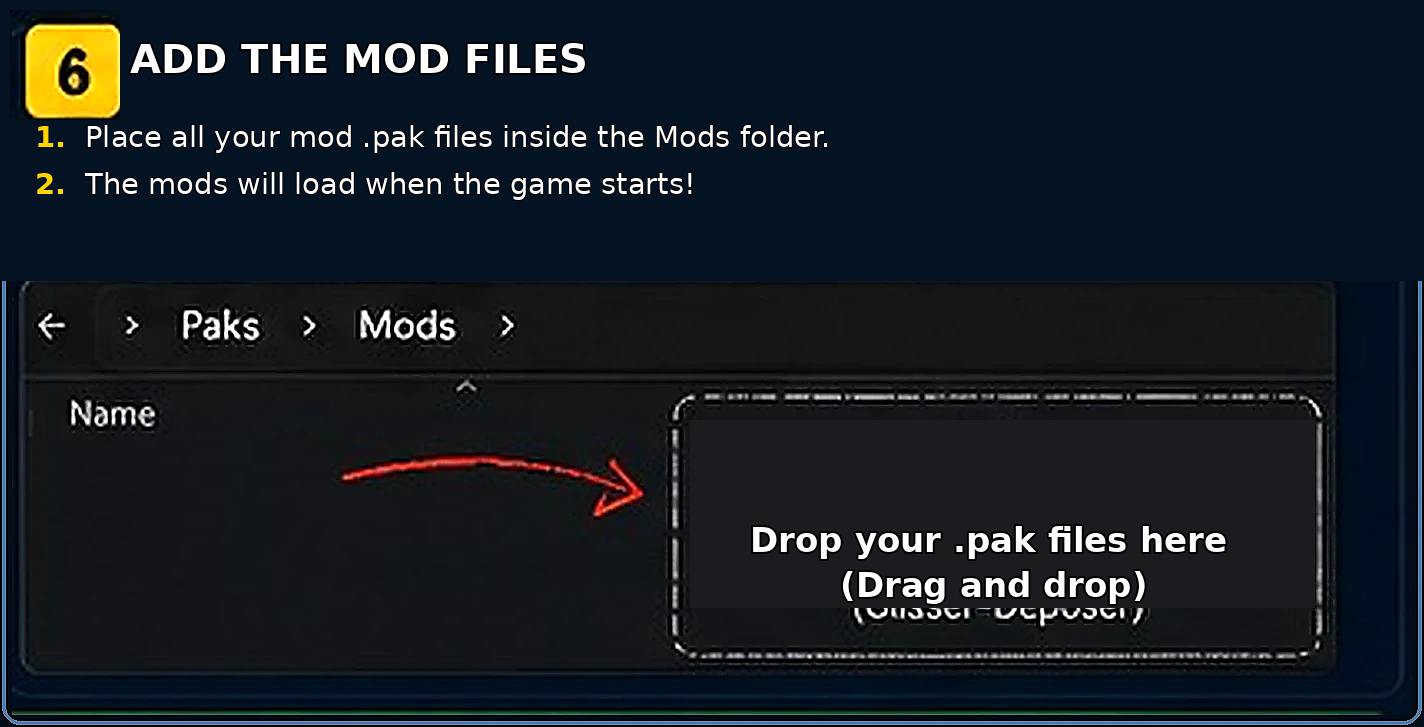
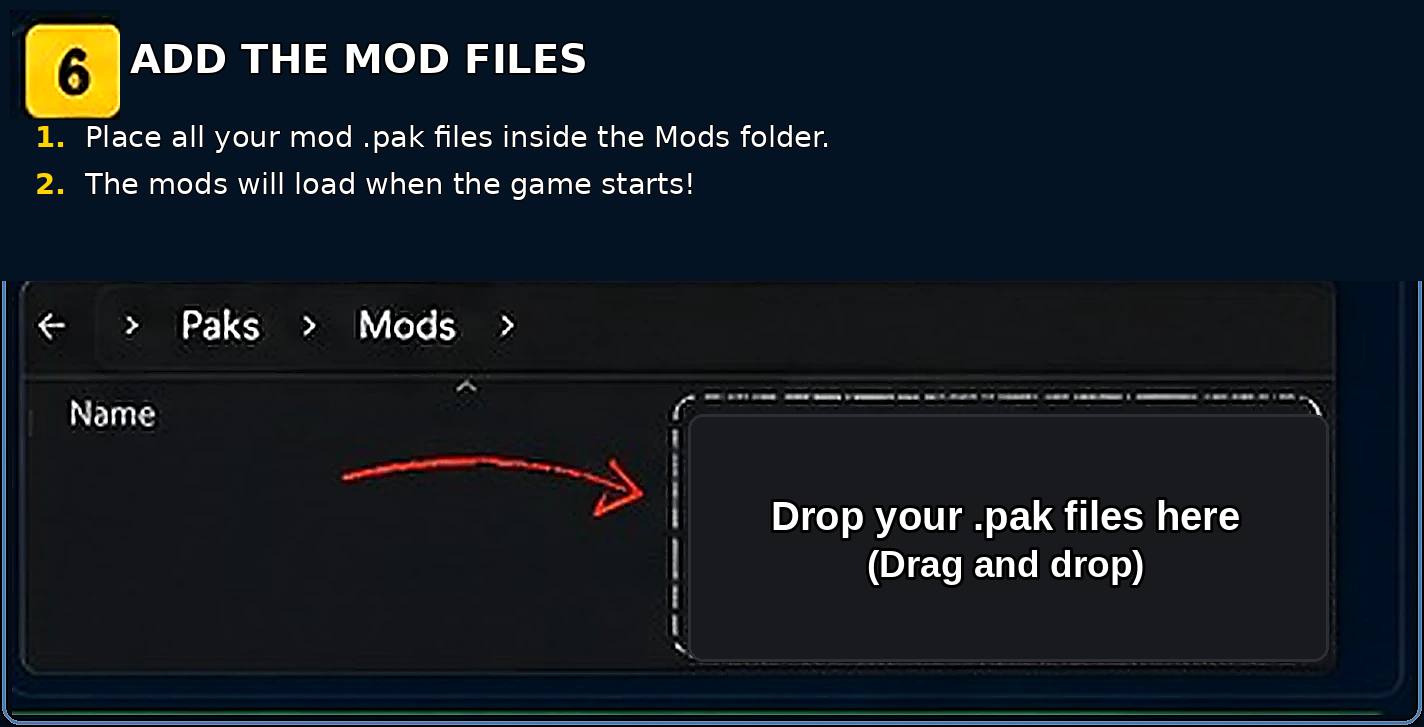
jai regles les installation

Changed region(s): [[0.4635, 0.575, 0.9579, 0.9078], [0.4944, 0.5447, 0.927, 0.575]]

diff --git a/public/js/v401-final-corrections.js b/public/js/v401-final-corrections.js
@@ -106,43 +106,139 @@
     });
   },true);
 
-  /* Installation PWA : vrai prompt si Brave/Chrome le fournit, aide précise sinon. */
+  /* Installation PWA : prompt natif quand disponible, raccourci téléchargeable sinon. */
   window.addEventListener('beforeinstallprompt',event=>{
     event.preventDefault();
     installPrompt=event;
   });
   window.addEventListener('appinstalled',()=>{installPrompt=null});
+
   const standalone=()=>matchMedia('(display-mode: standalone)').matches||navigator.standalone===true;
-  function installHelp(){
+  const ua=()=>String(navigator.userAgent||'');
+  const isIOS=()=>/iphone|ipad|ipod/i.test(ua());
+  const isAndroid=()=>/android/i.test(ua());
+  const isMac=()=>/macintosh|mac os x/i.test(ua())&&!isIOS();
+  const isLinux=()=>/linux/i.test(ua())&&!isAndroid();
+  const isFirefox=()=>/firefox\//i.test(ua());
+  const isSafari=()=>/safari/i.test(ua())&&!/chrome|chromium|crios|edg|opr|firefox/i.test(ua());
+  const isMobile=()=>isIOS()||isAndroid()||/mobile/i.test(ua());
+  const english=()=>{try{return (typeof lang!=='undefined'?lang:window.lang)==='en'}catch(_){return false}};
+  const tr=(fr,en)=>english()?en:fr;
+
+  function appHomeUrl(){
+    try{return new URL('/#home',location.origin).href}catch(_){return location.href.split('#')[0]+'#home'}
+  }
+
+  function downloadShortcut(){
+    if(isMobile())return false;
+    const url=appHomeUrl();
+    let name='MHUR-France.url';
+    let type='application/internet-shortcut;charset=utf-8';
+    let content=`[InternetShortcut]\r\nURL=${url}\r\nIconFile=${location.origin}/favicon.ico\r\nIconIndex=0\r\n`;
+
+    if(isMac()){
+      name='MHUR France.webloc';
+      type='application/xml;charset=utf-8';
+      const safe=url.replace(/&/g,'&amp;').replace(/</g,'&lt;').replace(/>/g,'&gt;');
+      content=`<?xml version="1.0" encoding="UTF-8"?>\n<!DOCTYPE plist PUBLIC "-//Apple//DTD PLIST 1.0//EN" "https://www.apple.com/DTDs/PropertyList-1.0.dtd">\n<plist version="1.0"><dict><key>URL</key><string>${safe}</string></dict></plist>`;
+    }else if(isLinux()){
+      name='MHUR-France.html';
+      type='text/html;charset=utf-8';
+      const safe=url.replace(/&/g,'&amp;').replace(/"/g,'&quot;').replace(/</g,'&lt;').replace(/>/g,'&gt;');
+      content=`<!doctype html><meta charset="utf-8"><meta http-equiv="refresh" content="0;url=${safe}"><title>MHUR France</title><p><a href="${safe}">Open MHUR France</a></p>`;
+    }
+
+    const blob=new Blob([content],{type});
+    const objectUrl=URL.createObjectURL(blob);
+    const link=document.createElement('a');
+    link.href=objectUrl;
+    link.download=name;
+    link.style.display='none';
+    document.body.appendChild(link);
+    link.click();
+    link.remove();
+    setTimeout(()=>URL.revokeObjectURL(objectUrl),1500);
+    return true;
+  }
+
+  function installHelp(shortcutDownloaded=false){
     let box=document.getElementById('v401InstallHelp');
     if(!box){
-      box=document.createElement('div');box.id='v401InstallHelp';box.className='v401InstallHelp';box.hidden=true;
-      box.innerHTML='<section class="v401InstallCard"><h2>Installer MHUR France</h2><div class="v401InstallText"></div><button type="button">OK</button></section>';
-      box.querySelector('button').onclick=()=>box.hidden=true;
-      box.onclick=e=>{if(e.target===box)box.hidden=true};
+      box=document.createElement('div');
+      box.id='v401InstallHelp';
+      box.className='v401InstallHelp';
+      box.hidden=true;
+      box.innerHTML='<section class="v401InstallCard" role="dialog" aria-modal="true"><button class="v401InstallClose" type="button" aria-label="Close">×</button><h2></h2><div class="v401InstallText"></div><div class="v401InstallActions"><button class="v401InstallDownload" type="button"></button><button class="v401InstallOk" type="button"></button></div></section>';
+      box.querySelector('.v401InstallClose').onclick=()=>box.hidden=true;
+      box.querySelector('.v401InstallOk').onclick=()=>box.hidden=true;
+      box.querySelector('.v401InstallDownload').onclick=()=>{
+        if(downloadShortcut())installHelp(true);
+      };
+      box.onclick=event=>{if(event.target===box)box.hidden=true};
       document.body.appendChild(box);
     }
-    const brave=!!navigator.brave||/Brave/i.test(navigator.userAgent);
-    const ios=/iphone|ipad|ipod/i.test(navigator.userAgent);
-    const en=(()=>{try{return (typeof lang!=='undefined'?lang:window.lang)==='en'}catch(_){return false}})();
-    let html;
-    if(ios)html=en?'In Safari, tap <b>Share</b>, then <b>Add to Home Screen</b>.':'Dans Safari, touche <b>Partager</b>, puis <b>Sur l’écran d’accueil</b>.';
-    else if(brave)html=en?'In Brave, click the install icon at the right of the address bar. If it is hidden, open the <b>☰ menu</b> and choose <b>Install MHUR France</b>.':'Dans Brave, clique sur l’icône d’installation à droite de la barre d’adresse. Si elle est cachée, ouvre le <b>menu ☰</b> puis choisis <b>Installer MHUR France</b>.';
-    else html=en?'Open the browser menu and choose <b>Install app</b>.':'Ouvre le menu du navigateur puis choisis <b>Installer l’application</b>.';
-    box.querySelector('.v401InstallText').innerHTML=`<p>${html}</p>`;box.hidden=false;
+
+    const title=box.querySelector('h2');
+    const text=box.querySelector('.v401InstallText');
+    const download=box.querySelector('.v401InstallDownload');
+    const ok=box.querySelector('.v401InstallOk');
+    title.textContent=tr('Installer MHUR France','Install MHUR France');
+    ok.textContent=tr('Fermer','Close');
+    download.textContent=tr('Télécharger le raccourci','Download shortcut');
+    download.hidden=isMobile();
+
+    let html='';
+    if(isIOS()){
+      html=tr('Dans <b>Safari</b>, touche <b>Partager</b>, puis <b>Sur l’écran d’accueil</b>.','In <b>Safari</b>, tap <b>Share</b>, then <b>Add to Home Screen</b>.');
+    }else if(isAndroid()){
+      html=tr('Ouvre le menu du navigateur puis choisis <b>Installer l’application</b> ou <b>Ajouter à l’écran d’accueil</b>.','Open the browser menu and choose <b>Install app</b> or <b>Add to Home screen</b>.');
+    }else if(isMac()&&isSafari()){
+      html=tr('Dans Safari, ouvre le menu <b>Fichier</b> puis choisis <b>Ajouter au Dock</b>.','In Safari, open the <b>File</b> menu, then choose <b>Add to Dock</b>.');
+    }else if(isFirefox()){
+      html=tr('Firefox ne propose pas toujours l’installation automatique. Utilise le raccourci téléchargé pour ouvrir MHUR France directement.','Firefox does not always offer automatic installation. Use the downloaded shortcut to open MHUR France directly.');
+    }else{
+      html=tr('Ton navigateur n’a pas affiché la fenêtre native. Tu peux utiliser son menu <b>Installer l’application</b> ou ouvrir le raccourci téléchargé.','Your browser did not show the native prompt. Use its <b>Install app</b> menu or open the downloaded shortcut.');
+    }
+    if(shortcutDownloaded&&!isMobile()){
+      html=`<p>${html}</p>`+tr('<p class="v401InstallSuccess">✅ Le raccourci MHUR France a été téléchargé.</p>','<p class="v401InstallSuccess">✅ The MHUR France shortcut was downloaded.</p>');
+    }else{
+      html=`<p>${html}</p>`;
+    }
+    text.innerHTML=html;
+    box.hidden=false;
   }
+
+  async function waitForInstallPrompt(timeout=900){
+    if(installPrompt)return installPrompt;
+    return new Promise(resolve=>{
+      const started=Date.now();
+      const timer=setInterval(()=>{
+        if(installPrompt||Date.now()-started>=timeout){clearInterval(timer);resolve(installPrompt||null)}
+      },60);
+    });
+  }
+
   async function install(){
     if(standalone())return;
     if('serviceWorker'in navigator&&location.protocol==='https:'){
-      try{const r=await navigator.serviceWorker.register('/service-worker.js?v=401',{scope:'/',updateViaCache:'none'});await r.update().catch(()=>{});await navigator.serviceWorker.ready}catch(_){}
+      try{
+        const registration=await navigator.serviceWorker.register('/service-worker.js?v=406',{scope:'/',updateViaCache:'none'});
+        await registration.update().catch(()=>{});
+        await navigator.serviceWorker.ready;
+      }catch(_){ }
     }
-    if(installPrompt){
-      const prompt=installPrompt;installPrompt=null;
-      try{await prompt.prompt();await prompt.userChoice}catch(_){}
+
+    const prompt=installPrompt||await waitForInstallPrompt();
+    if(prompt){
+      installPrompt=null;
+      try{await prompt.prompt();await prompt.userChoice}catch(_){ }
       return;
     }
-    installHelp();
+
+    const downloaded=downloadShortcut();
+    installHelp(downloaded);
   }
+
   document.addEventListener('click',event=>{
     const button=event.target.closest('#drawer [data-v395-key="install"],#drawer [data-mhur-install]');
     if(!button)return;
@@ -152,5 +248,5 @@
   document.addEventListener('DOMContentLoaded',()=>{wireRoutes();setTimeout(wireRoutes,80);setTimeout(wireRoutes,500)},{once:true});
   window.addEventListener('hashchange',()=>setTimeout(refresh,0));
   window.addEventListener('load',()=>setTimeout(wireRoutes,50),{once:true});
-  window.MHUR_V401={activate,refresh,install};
+  window.MHUR_V401={activate,refresh,install,downloadShortcut};
 })();

diff --git a/public/index.html b/public/index.html
@@ -7,7 +7,7 @@
 <meta charset="utf-8">
 <meta name="viewport" content="width=device-width,initial-scale=1">
 <meta name="google-site-verification" content="kw2VXVq_AZcsKg3TdhJl91U4poT62GNr8Mjg0Sh4T-0" />
-<title>My Hero Ultra Rumble France</title>
+<title>MHUR FR — My Hero Ultra Rumble France | Site communautaire</title>
 <style>
 :root{
   --bg:#070b13;--panel:#101928;--panel2:#17263b;--line:#344c70;--text:#f7fbff;--muted:#c7d7ee;
@@ -714,22 +714,53 @@
 <link rel="icon" type="image/png" sizes="32x32" href="assets/brand/favicon-32.png">
 <link rel="apple-touch-icon" href="assets/brand/apple-touch-icon.png">
 <meta name="theme-color" content="#ffe100">
-<title>MHUR France — Personnages, costumes, T.U.N.I.N.G et builds</title>
-<meta name="description" content="Site communautaire français dédié à My Hero Ultra Rumble : personnages, compétences, costumes, T.U.N.I.N.G, builds, Tier Lists, événements et patch notes.">
-<meta name="robots" content="index,follow,max-image-preview:large">
+<meta name="description" content="MHUR FR, le site communautaire français de My Hero Ultra Rumble (aussi recherché My Hero Academia Ultra Rumble) : personnages, builds, costumes, T.U.N.I.N.G, Tier Lists, mods et événements.">
+<meta name="keywords" content="MHUR FR, MHUR France, My Hero Ultra Rumble France, My Hero Academia Ultra Rumble, My Hero Academia Ultra Rumble France, builds MHUR, Tier List MHUR, mods MHUR">
+<meta name="robots" content="index,follow,max-image-preview:large,max-snippet:-1,max-video-preview:-1">
 <link rel="canonical" href="https://mhur-france.eallon01.workers.dev/">
+<link rel="alternate" hreflang="fr-FR" href="https://mhur-france.eallon01.workers.dev/">
+<link rel="alternate" hreflang="x-default" href="https://mhur-france.eallon01.workers.dev/">
 <meta property="og:type" content="website">
 <meta property="og:locale" content="fr_FR">
-<meta property="og:site_name" content="MHUR France">
-<meta property="og:title" content="MHUR France — My Hero Ultra Rumble France">
-<meta property="og:description" content="Personnages, compétences, costumes, T.U.N.I.N.G, builds communautaires, Tier Lists et événements MHUR.">
+<meta property="og:site_name" content="MHUR FR">
+<meta property="og:title" content="MHUR FR — My Hero Ultra Rumble France">
+<meta property="og:description" content="Le site communautaire français de My Hero Ultra Rumble : personnages, builds, costumes, T.U.N.I.N.G, Tier Lists, mods et événements.">
 <meta property="og:url" content="https://mhur-france.eallon01.workers.dev/">
 <meta property="og:image" content="https://mhur-france.eallon01.workers.dev/assets/brand/mhur-france-icon.png">
+<meta property="og:image:alt" content="Logo de MHUR FR, communauté française de My Hero Ultra Rumble">
 <meta name="twitter:card" content="summary_large_image">
-<meta name="twitter:title" content="MHUR France">
-<meta name="twitter:description" content="La plateforme communautaire française de My Hero Ultra Rumble.">
+<meta name="twitter:title" content="MHUR FR — My Hero Ultra Rumble France">
+<meta name="twitter:description" content="La communauté française de My Hero Ultra Rumble : guides, builds, Tier Lists, mods et événements.">
 <meta name="twitter:image" content="https://mhur-france.eallon01.workers.dev/assets/brand/mhur-france-icon.png">
-<script type="application/ld+json">{"@context":"https://schema.org","@type":"WebSite","name":"MHUR France","url":"https://mhur-france.eallon01.workers.dev/","inLanguage":["fr","en"],"potentialAction":{"@type":"SearchAction","target":"https://mhur-france.eallon01.workers.dev/?q={search_term_string}","query-input":"required name=search_term_string"}}</script>
+<meta name="twitter:image:alt" content="Logo de MHUR FR">
+<script type="application/ld+json">
+{
+  "@context": "https://schema.org",
+  "@graph": [
+    {
+      "@type": "WebSite",
+      "@id": "https://mhur-france.eallon01.workers.dev/#website",
+      "url": "https://mhur-france.eallon01.workers.dev/",
+      "name": "MHUR FR",
+      "alternateName": [
+        "MHUR France",
+        "My Hero Ultra Rumble France",
+        "My Hero Academia Ultra Rumble France"
+      ],
+      "description": "Site communautaire français dédié à My Hero Ultra Rumble.",
+      "inLanguage": ["fr-FR", "en"]
+    },
+    {
+      "@type": "Organization",
+      "@id": "https://mhur-france.eallon01.workers.dev/#organization",
+      "name": "MHUR FR",
+      "alternateName": "MHUR France",
+      "url": "https://mhur-france.eallon01.workers.dev/",
+      "logo": "https://mhur-france.eallon01.workers.dev/assets/brand/mhur-france-icon.png"
+    }
+  ]
+}
+</script>
 
 </head>
 <body>
@@ -1043,7 +1074,7 @@ function updateSigninText(){const t=document.getElementById('signinTitle'),s=doc
 function toggleLang(){lang=lang==='fr'?'en':'fr';layout();updateSigninText();window.MHUR_AUTH?.renderButton?.()}function go(p){page=p||'home';selectedChar=null;selectedStyle=null;selectedCostume=null;document.getElementById('drawer').classList.remove('open');if(location.hash!=='#'+page) location.hash=page;layout()}window.addEventListener('hashchange',()=>{const h=(location.hash||'#home').replace('#','');if(['home','characters','tunings','costumes','builds'].includes(h))go(h)});document.addEventListener('click',(e)=>{const a=e.target.closest('.navItem');if(a&&!a.hasAttribute('data-mhur-hub')){e.preventDefault();go(a.dataset.page)}});
 function layout(){document.getElementById('drawer').innerHTML=['home','characters','tunings','costumes','builds'].map(p=>`<a href="#${p}" data-page="${p}" class="navItem ${page===p?'active':''}">${tr(p)}</a>`).join('');render()}
 function card(c,mode='characters'){const modeClass=mode==='costumes'?' costumeMode':mode==='builds'?' buildMode':mode==='tunings'?' tuningMode':' characterMode';const tag=mode==='costumes'?`<div class="cardModeTag">${tr('costumeTag')}</div>`:mode==='builds'?`<div class="cardModeTag">${tr('buildTag')}</div>`:mode==='tunings'?`<div class="cardModeTag">T.U.N.I.N.G</div>`:`<div class="cardModeTag">PERSONNAGE</div>`;const msg=mode==='costumes'?tr('costumeChoose'):mode==='builds'?tr('buildChoose'):mode==='tunings'?'Clique pour choisir le T.U.N.I.N.G.':tr('choose');return `<button class="card${modeClass}" data-char="${c.id}" onclick="selectChar('${c.id}')">${tag}<div class="thumb">${asset(c.portrait,c.name)}</div><div class="cardBody"><h3>${c.name}</h3><div class="badges">${sideBadge(c.side)}${c.styles.map(s=>roleBadge(styles[s].role)).join('')}</div><p style="color:#c9d7ee">${msg}</p></div></button>`}
-function home(){return `<h1 class="title">MY HERO ULTRA RUMBLE FRANCE</h1><div class="homeBox">Base de données FR/EN pour les personnages, T.U.N.I.N.G, costumes et builds de la communauté.<br><br>Les personnages déjà détaillés restent complets. Les personnages restants ont été ajoutés dans l’ordre du roster avec des fiches provisoires à compléter progressivement.<div class="workflowBox"><h2>Workflow portraits v152</h2>Le site contient maintenant un dossier <code>portrait_pipeline</code> pour gérer les portraits de skins proprement : on récupère les images, on les range avec un ordre numérique, puis on garde l’ordre officiel du jeu dans un fichier JSON.<div class="workflowSteps"><div class="workflowStep"><b>1.</b> Récupérer les portraits UltraRumble dans <code>portrait_source</code></div><div class="workflowStep"><b>2.</b> Remplir <code>skin_order_template.json</code> avec l’ordre du jeu</div><div class="workflowStep"><b>3.</b> Lancer <code>prepare_portraits.py</code> pour renommer et créer le manifest</div></div></div></div>`}
+function home(){return `<h1 class="title">MHUR FR — MY HERO ULTRA RUMBLE FRANCE</h1><div class="homeBox"><strong>MHUR FR</strong> est le site communautaire français de <strong>My Hero Ultra Rumble</strong>, parfois recherché sous le nom « My Hero Academia Ultra Rumble ». Retrouvez les personnages, T.U.N.I.N.G, costumes, builds, Tier Lists, mods et événements de la communauté.<br><br>Les personnages déjà détaillés restent complets. Les personnages restants ont été ajoutés dans l’ordre du roster avec des fiches provisoires à compléter progressivement.<div class="workflowBox"><h2>Workflow portraits v152</h2>Le site contient maintenant un dossier <code>portrait_pipeline</code> pour gérer les portraits de skins proprement : on récupère les images, on les range avec un ordre numérique, puis on garde l’ordre officiel du jeu dans un fichier JSON.<div class="workflowSteps"><div class="workflowStep"><b>1.</b> Récupérer les portraits UltraRumble dans <code>portrait_source</code></div><div class="workflowStep"><b>2.</b> Remplir <code>skin_order_template.json</code> avec l’ordre du jeu</div><div class="workflowStep"><b>3.</b> Lancer <code>prepare_portraits.py</code> pour renommer et créer le manifest</div></div></div></div>`}
 function rosterSections(showSearch=false,mode='characters'){const hs=characters.filter(c=>c.side==='hero').map(c=>card(c,mode)).join('');const vs=characters.filter(c=>c.side==='villain').map(c=>card(c,mode)).join('');const prefix=mode==='costumes'?`${tr('costumes')} — `:mode==='builds'?`${tr('builds')} — `:mode==='tunings'?`T.U.N.I.N.G — `:`${tr('characters')} — `;const notice=mode==='costumes'?`<div class="modeNotice"><span>${tr('costumeTag')}</span>${tr('costumeChoose')}</div>`:mode==='builds'?`<div class="modeNotice"><span>${tr('buildTag')}</span>${tr('buildChoose')}</div>`:mode==='tunings'?`<div class="modeNotice"><span>T.U.N.I.N.G</span>${tr('tuningNotice')}</div>`:`<div class="modeNotice"><span>${tr('charactersTag')}</span>${tr('characterNotice')}</div>`;const frame=mode==='costumes'?'costumesFrame':mode==='builds'?'buildsFrame':mode==='tunings'?'tuningsFrame':'charactersFrame';return `<div class="pageFrame ${frame}">${notice}${showSearch?`<input class="search" placeholder="${tr('search')}" oninput="filterCards(this.value)">`:''}<div class="section"><div class="sectionHead heroHead">${prefix}${tr('heroes')}</div><div class="sectionBody cardsGrid" id="cards">${hs}</div></div><div class="section"><div class="sectionHead villainHead">${prefix}${tr('villains')}</div><div class="sectionBody cardsGrid">${vs}</div></div></div>`}
 function charactersPage(){if(selectedChar&&selectedStyle)return characterDetail(selectedStyle);if(selectedChar)return stylePicker();return `<h1 class="title">${tr('characters')}</h1>${rosterSections(true)}`}
 function filterCards(q){q=q.toLowerCase();document.querySelectorAll('.card').forEach(el=>el.style.display=el.textContent.toLowerCase().includes(q)?'flex':'none')}
@@ -5836,8 +5867,8 @@ body .costumeTile > img,
 
 
 <!-- V401 MUST remain last: targeted final corrections. -->
-<link rel="stylesheet" href="css/v405-final-hamburger.css?v=405">
-<script src="js/v401-final-corrections.js?v=401"></script>
+<link rel="stylesheet" href="css/v405-final-hamburger.css?v=406">
+<script src="js/v401-final-corrections.js?v=406"></script>
 <script src="js/v403-tutorial-image-language.js?v=404"></script>
 </body></html>
 <style id="v223_tuning_text_fix">
@@ -6597,7 +6628,7 @@ body .costumeTile > img,
 <!-- V386 JS disabled by V395 -->
 <!-- V387 Community Mods — loaded after menu organisation. -->
 <link rel="stylesheet" href="css/community-mods.css?v=400">
-<script src="js/community-mods.js?v=400"></script>
+<script src="js/community-mods.js?v=406"></script>
 <!-- V391 JS disabled by V395 -->
 <script src="js/v395-stable-menu.js?v=399"></script>
 

diff --git a/public/css/v405-final-hamburger.css b/public/css/v405-final-hamburger.css
@@ -139,12 +139,16 @@ body.v401-tier-dragging{scroll-behavior:auto!important}
 }
 .v401InstallHelp[hidden]{display:none}
 .v401InstallCard{
-  width:min(560px,100%);padding:24px;border:3px solid #4b6f9d;border-radius:18px;
+  position:relative;width:min(560px,100%);padding:24px;border:3px solid #4b6f9d;border-radius:18px;
   background:#101a2a;color:#fff;box-shadow:0 18px 70px #000
 }
-.v401InstallCard h2{margin:0 0 12px;color:#ffe000}
+.v401InstallCard h2{margin:0 44px 12px 0;color:#ffe000}
 .v401InstallCard p{line-height:1.55}
-.v401InstallCard button{display:block;margin:18px 0 0 auto;padding:10px 18px;border:2px solid #000;border-radius:10px;background:#ffe000;color:#000;font-weight:1000}
+.v401InstallClose{position:absolute;top:12px;right:12px;width:38px;height:38px;margin:0!important;padding:0!important;border-radius:50%!important;background:#e84f48!important;color:#fff!important;font-size:24px!important;line-height:1!important}
+.v401InstallActions{display:flex;justify-content:flex-end;gap:10px;flex-wrap:wrap;margin-top:18px}
+.v401InstallCard .v401InstallActions button{display:block;margin:0;padding:10px 18px;border:2px solid #000;border-radius:10px;background:#ffe000;color:#000;font-weight:1000}
+.v401InstallCard .v401InstallOk{background:#243752;color:#fff}
+.v401InstallSuccess{margin:14px 0 0;padding:10px 12px;border:2px solid #2e8b57;border-radius:10px;background:#10291d;color:#caffdf;font-weight:900}
 
 @media(max-width:760px){
   .modalV296{padding-top:max(8px,env(safe-area-inset-top))!important}

diff --git a/public/js/community-mods.js b/public/js/community-mods.js
@@ -29,7 +29,7 @@ function filtered(){let rows=state.rows.filter(r=>{const cat=normalizedCategory(
 function preview(r,controls=false){if(r.preview_url&&r.preview_type==='video')return `<video src="${esc(r.preview_url)}" ${controls?'controls':'muted loop playsinline'} preload="metadata"></video>`;if(r.preview_url)return `<img src="${esc(r.preview_url)}" alt="${esc(r.title)}" loading="lazy">`;return `<div class="modPreviewFallback">🧩</div>`}
 function tags(r){const arr=[categoryLabel(r.category),r.character_name,...(Array.isArray(r.tags)?r.tags:[])].filter(Boolean);return [...new Set(arr)].map(t=>`<button class="modTag" data-mod-tag="${esc(t)}">${esc(t)}</button>`).join('')}
 function card(r){const p=state.profiles[r.creator_id]||{};return `<article class="modCard" data-mod-id="${esc(r.id)}"><button class="modCardOpen" data-mod-open="${esc(r.id)}" aria-label="${tx('Ouvrir le mod','Open mod')}"><div class="modPreview">${preview(r)}</div></button><div class="modBody"><div class="modTags">${tags(r)}</div><button class="modTitle" data-mod-open="${esc(r.id)}"><h3>${esc(r.title)}</h3></button>${r.character_name?`<b>👤 ${esc(r.character_name)}</b>`:''}<p>${esc(r.description)}</p><div class="modMeta">${esc(p.username||tx('Membre','Member'))} · ${formatDate(r.created_at)} · ${formatSize(r.file_size)}</div><div class="modStats"><span>♥ ${Number(r.likes_count)||0}</span><span>⬇ ${Number(r.downloads_count)||0}</span></div></div></article>`}
-function tutorial(){return `<details class="modsTutorial"><summary>📘 ${tx('Installer des mods — PC Steam uniquement','Install mods — PC Steam only')}</summary><div class="modsTutorialBody"><div class="modsWarning">⚠️ ${tx('Ce tutoriel concerne uniquement la version PC Steam de My Hero Ultra Rumble. Les mods ne fonctionnent pas sur console.','This tutorial is only for the PC Steam version of My Hero Ultra Rumble. Mods do not work on console.')}</div><section class="modsTutorialSteps modsTutorialStepsFinal"><article><h3>1. ${tx('Activer les mods dans Steam','Enable mods in Steam')}</h3><ol><li>${tx('Ouvre ta bibliothèque Steam et sélectionne My Hero Ultra Rumble.','Open your Steam library and select My Hero Ultra Rumble.')}</li><li>${tx('Clique sur l’engrenage, puis sur Propriétés.','Click the gear icon, then Properties.')}</li><li>${tx('Dans Général, trouve Options de lancement.','In General, find Launch Options.')}</li><li>${tx('Copie-colle exactement cette commande :','Copy and paste this exact command:')} <button class="modsCopyCommand" type="button" data-copy="-fileopenlog"><code>-fileopenlog</code><span>${tx('Copier','Copy')}</span></button></li></ol><p class="modsImportant">${tx('Sans cette commande, le jeu ne chargera pas les mods.','Without this command, the game will not load mods.')}</p><img class="modsTutorialStepImage" src="assets/mods-tutorial/steps/etape-1.png" data-fr-src="assets/mods-tutorial/steps/etape-1.png" data-en-src="assets/mods-tutorial/steps/etape-1-en.png" loading="lazy" decoding="async" alt="${tx('Steam : Propriétés et option de lancement -fileopenlog','Steam: Properties and the -fileopenlog launch option')}"></article><article><h3>2. ${tx('Ouvrir les fichiers locaux','Open local files')}</h3><ol><li>${tx('Clique de nouveau sur l’engrenage.','Click the gear icon again.')}</li><li>${tx('Choisis Gérer.','Choose Manage.')}</li><li>${tx('Clique sur Parcourir les fichiers locaux.','Click Browse local files.')}</li></ol><img class="modsTutorialStepImage" src="assets/mods-tutorial/steps/etape-2.png" data-fr-src="assets/mods-tutorial/steps/etape-2.png" data-en-src="assets/mods-tutorial/steps/etape-2-en.png" loading="lazy" decoding="async" alt="${tx('Steam : Gérer puis Parcourir les fichiers locaux','Steam: Manage then Browse local files')}"></article><article><h3>3. ${tx('Ouvrir HerovsGame','Open HerovsGame')}</h3><ol><li>${tx('Dans le dossier du jeu, double-clique sur','In the game folder, double-click')} <code>HerovsGame</code>.</li></ol><img class="modsTutorialStepImage" src="assets/mods-tutorial/steps/etape-3.png" data-fr-src="assets/mods-tutorial/steps/etape-3.png" data-en-src="assets/mods-tutorial/steps/etape-3-en.png" loading="lazy" decoding="async" alt="${tx('Dossier HerovsGame','HerovsGame folder')}"></article><article><h3>4. ${tx('Ouvrir Content puis Paks','Open Content then Paks')}</h3><ol><li>${tx('Dans HerovsGame, ouvre','Inside HerovsGame, open')} <code>Content</code>.</li><li>${tx('Ensuite, ouvre','Then open')} <code>Paks</code>.</li></ol><img class="modsTutorialStepImage" src="assets/mods-tutorial/steps/etape-4.png" data-fr-src="assets/mods-tutorial/steps/etape-4.png" data-en-src="assets/mods-tutorial/steps/etape-4-en.png" loading="lazy" decoding="async" alt="${tx('Dossiers Content et Paks','Content and Paks folders')}"></article><article><h3>5. ${tx('Créer le dossier Mods','Create the Mods folder')}</h3><ol><li>${tx('Dans Paks, crée un nouveau dossier.','Inside Paks, create a new folder.')}</li><li>${tx('Nomme-le exactement','Name it exactly')} <code>Mods</code> ${tx('(avec une majuscule).','(with a capital M).')}</li></ol><img class="modsTutorialStepImage" src="assets/mods-tutorial/steps/etape-5.png" data-fr-src="assets/mods-tutorial/steps/etape-5.png" data-en-src="assets/mods-tutorial/steps/etape-5-en.png" loading="lazy" decoding="async" alt="${tx('Création du dossier Mods','Creating the Mods folder')}"></article><article><h3>6. ${tx('Ajouter les fichiers .pak','Add the .pak files')}</h3><ol><li>${tx('Ouvre le dossier Mods.','Open the Mods folder.')}</li><li>${tx('Place tous les fichiers .pak téléchargés dans ce dossier.','Place all downloaded .pak files in this folder.')}</li><li>${tx('Lance ensuite le jeu depuis Steam.','Then launch the game from Steam.')}</li></ol><p><code>SteamLibrary/steamapps/common/My Hero Ultra Rumble/HerovsGame/Content/Paks/Mods</code></p><img class="modsTutorialStepImage" src="assets/mods-tutorial/steps/etape-6.png" data-fr-src="assets/mods-tutorial/steps/etape-6.png" data-en-src="assets/mods-tutorial/steps/etape-6-en.png" loading="lazy" decoding="async" alt="${tx('Ajout des fichiers pak dans Mods','Adding pak files to Mods')}"></article><article class="modsTutorialDone"><h3>✅ ${tx('C’est terminé','You are done')}</h3><p>${tx('Si le mod est compatible et correctement installé, il sera chargé automatiquement. Pour retirer un mod, supprime simplement son fichier .pak du dossier Mods.','If the mod is compatible and installed correctly, it will load automatically. To remove a mod, simply delete its .pak file from the Mods folder.')}</p></article></section></div></details>`}
+function tutorial(){return `<details class="modsTutorial"><summary>📘 ${tx('Installer des mods — PC Steam uniquement','Install mods — PC Steam only')}</summary><div class="modsTutorialBody"><div class="modsWarning">⚠️ ${tx('Ce tutoriel concerne uniquement la version PC Steam de My Hero Ultra Rumble. Les mods ne fonctionnent pas sur console.','This tutorial is only for the PC Steam version of My Hero Ultra Rumble. Mods do not work on console.')}</div><section class="modsTutorialSteps modsTutorialStepsFinal"><article><h3>1. ${tx('Activer les mods dans Steam','Enable mods in Steam')}</h3><ol><li>${tx('Ouvre ta bibliothèque Steam et sélectionne My Hero Ultra Rumble.','Open your Steam library and select My Hero Ultra Rumble.')}</li><li>${tx('Clique sur l’engrenage, puis sur Propriétés.','Click the gear icon, then Properties.')}</li><li>${tx('Dans Général, trouve Options de lancement.','In General, find Launch Options.')}</li><li>${tx('Copie-colle exactement cette commande :','Copy and paste this exact command:')} <button class="modsCopyCommand" type="button" data-copy="-fileopenlog"><code>-fileopenlog</code><span>${tx('Copier','Copy')}</span></button></li></ol><p class="modsImportant">${tx('Sans cette commande, le jeu ne chargera pas les mods.','Without this command, the game will not load mods.')}</p><img class="modsTutorialStepImage" src="assets/mods-tutorial/steps/etape-1.png" data-fr-src="assets/mods-tutorial/steps/etape-1.png" data-en-src="assets/mods-tutorial/steps/etape-1-en.png" loading="lazy" decoding="async" alt="${tx('Steam : Propriétés et option de lancement -fileopenlog','Steam: Properties and the -fileopenlog launch option')}"></article><article><h3>2. ${tx('Ouvrir les fichiers locaux','Open local files')}</h3><ol><li>${tx('Refais un clic droit sur My Hero Ultra Rumble.','Click the gear icon again.')}</li><li>${tx('Choisis Gérer.','Choose Manage.')}</li><li>${tx('Clique sur Parcourir les fichiers locaux.','Click Browse local files.')}</li></ol><img class="modsTutorialStepImage" src="assets/mods-tutorial/steps/etape-2.png" data-fr-src="assets/mods-tutorial/steps/etape-2.png" data-en-src="assets/mods-tutorial/steps/etape-2-en.png" loading="lazy" decoding="async" alt="${tx('Steam : Gérer puis Parcourir les fichiers locaux','Steam: Manage then Browse local files')}"></article><article><h3>3. ${tx('Ouvrir HerovsGame','Open HerovsGame')}</h3><ol><li>${tx('Dans le dossier du jeu, double-clique sur','In the game folder, double-click')} <code>HerovsGame</code>.</li></ol><img class="modsTutorialStepImage" src="assets/mods-tutorial/steps/etape-3.png" data-fr-src="assets/mods-tutorial/steps/etape-3.png" data-en-src="assets/mods-tutorial/steps/etape-3-en.png" loading="lazy" decoding="async" alt="${tx('Dossier HerovsGame','HerovsGame folder')}"></article><article><h3>4. ${tx('Ouvrir Content puis Paks','Open Content then Paks')}</h3><ol><li>${tx('Dans HerovsGame, ouvre','Inside HerovsGame, open')} <code>Content</code>.</li><li>${tx('Ensuite, ouvre','Then open')} <code>Paks</code>.</li></ol><img class="modsTutorialStepImage" src="assets/mods-tutorial/steps/etape-4.png" data-fr-src="assets/mods-tutorial/steps/etape-4.png" data-en-src="assets/mods-tutorial/steps/etape-4-en.png" loading="lazy" decoding="async" alt="${tx('Dossiers Content et Paks','Content and Paks folders')}"></article><article><h3>5. ${tx('Créer le dossier Mods','Create the Mods folder')}</h3><ol><li>${tx('Dans Paks, crée un nouveau dossier.','Inside Paks, create a new folder.')}</li><li>${tx('Nomme-le exactement','Name it exactly')} <code>Mods</code> ${tx('(avec une majuscule).','(with a capital M).')}</li></ol><img class="modsTutorialStepImage" src="assets/mods-tutorial/steps/etape-5.png" data-fr-src="assets/mods-tutorial/steps/etape-5.png" data-en-src="assets/mods-tutorial/steps/etape-5-en.png" loading="lazy" decoding="async" alt="${tx('Création du dossier Mods','Creating the Mods folder')}"></article><article><h3>6. ${tx('Ajouter les fichiers .pak','Add the .pak files')}</h3><ol><li>${tx('Ouvre le dossier Mods.','Open the Mods folder.')}</li><li>${tx('Place tous les fichiers .pak téléchargés dans ce dossier.','Place all downloaded .pak files in this folder.')}</li><li>${tx('Lance ensuite le jeu depuis Steam.','Then launch the game from Steam.')}</li></ol><p><code>SteamLibrary/steamapps/common/My Hero Ultra Rumble/HerovsGame/Content/Paks/Mods</code></p><img class="modsTutorialStepImage" src="assets/mods-tutorial/steps/etape-6.png" data-fr-src="assets/mods-tutorial/steps/etape-6.png" data-en-src="assets/mods-tutorial/steps/etape-6-en.png?v=406" loading="lazy" decoding="async" alt="${tx('Ajout des fichiers pak dans Mods','Adding pak files to Mods')}"></article><article class="modsTutorialDone"><h3>✅ ${tx('C’est terminé','You are done')}</h3><p>${tx('Si le mod est compatible et correctement installé, il sera chargé automatiquement. Pour retirer un mod, supprime simplement son fichier .pak du dossier Mods.','If the mod is compatible and installed correctly, it will load automatically. To remove a mod, simply delete its .pak file from the Mods folder.')}</p></article></section></div></details>`}
 function pageHtml(){const catOptions=CATEGORIES.map(c=>`<option value="${c}" ${state.category===c?'selected':''}>${esc(categoryLabel(c))}</option>`).join('');const charOptions=availableCharacters().map(c=>`<option value="${esc(c)}" ${state.character===c?'selected':''}>${esc(c)}</option>`).join('');const rows=filtered();return `<div class="modsPage"><section class="modsHero"><div><h1>🧩 Mods</h1><p>${tx('Découvre, filtre et partage les créations de la communauté MHUR.','Discover, filter and share MHUR community creations.')}</p></div><button class="modsPrimary" id="modsPublishBtn">＋ ${tx('Publier un mod','Publish a mod')}</button></section>${tutorial()}<section class="modsToolbar" aria-label="Filtres"><input id="modsSearch" value="${esc(state.query)}" placeholder="${tx('Rechercher par nom, auteur, personnage…','Search by name, author, character…')}"><select id="modsCategory"><option value="all">${tx('Toutes les catégories','All categories')}</option>${catOptions}</select><select id="modsCharacter"><option value="all">${tx('Tous les personnages','All characters')}</option>${charOptions}</select><select id="modsSort"><option value="recent" ${state.sort==='recent'?'selected':''}>${tx('Plus récents','Newest')}</option><option value="downloads" ${state.sort==='downloads'?'selected':''}>${tx('Plus téléchargés','Most downloaded')}</option><option value="likes" ${state.sort==='likes'?'selected':''}>${tx('Plus aimés','Most liked')}</option><option value="name" ${state.sort==='name'?'selected':''}>A–Z</option></select></section><div class="modsResultCount">${rows.length} ${tx(rows.length>1?'mods trouvés':'mod trouvé',rows.length===1?'mod found':'mods found')}</div>${state.loading?`<div class="modsEmpty">${tx('Chargement…','Loading…')}</div>`:state.error?`<div class="modsError">${esc(state.error)}<br><small>${tx('Exécute les scripts SQL V387 puis V390 dans Supabase.','Run the V387 then V390 SQL scripts in Supabase.')}</small></div>`:rows.length?`<div class="modsGrid">${rows.map(card).join('')}</div>`:`<div class="modsEmpty">${tx('Aucun mod ne correspond aux filtres.','No mods match these filters.')}</div>`}</div>`}
 function renderPage(){if(typeof page==='undefined'||page!=='mods')return;const root=document.getElementById('content')||document.querySelector('main')||document.body;root.innerHTML=pageHtml();bindPage()}
 function bindPage(){document.querySelectorAll('.modsCopyCommand').forEach(b=>b.addEventListener('click',async()=>{try{await navigator.clipboard.writeText(b.dataset.copy||'-fileopenlog');const span=b.querySelector('span');if(span){const old=span.textContent;span.textContent=tx('Copié !','Copied!');setTimeout(()=>span.textContent=old,1400)}}catch(_){prompt(tx('Copie cette commande :','Copy this command:'),b.dataset.copy||'-fileopenlog')}}));document.getElementById('modsPublishBtn')?.addEventListener('click',openPublish);document.getElementById('modsSearch')?.addEventListener('input',e=>{state.query=e.target.value;renderPage()});document.getElementById('modsCategory')?.addEventListener('change',e=>{state.category=e.target.value;renderPage()});document.getElementById('modsCharacter')?.addEventListener('change',e=>{state.character=e.target.value;renderPage()});document.getElementById('modsSort')?.addEventListener('change',e=>{state.sort=e.target.value;renderPage()});document.querySelectorAll('[data-mod-open]').forEach(b=>b.addEventListener('click',()=>openDetail(b.dataset.modOpen)));document.querySelectorAll('[data-mod-tag]').forEach(b=>b.addEventListener('click',()=>{const t=b.dataset.modTag;if(CATEGORIES.includes(t.toLowerCase()))state.category=t.toLowerCase();else state.character=t;renderPage()}))}

diff --git a/public/service-worker.js b/public/service-worker.js
@@ -1,4 +1,4 @@
-const RELEASE='402';
+const RELEASE='406';
 self.addEventListener('install',event=>event.waitUntil(self.skipWaiting()));
 self.addEventListener('activate',event=>event.waitUntil((async()=>{
   const keys=await caches.keys();